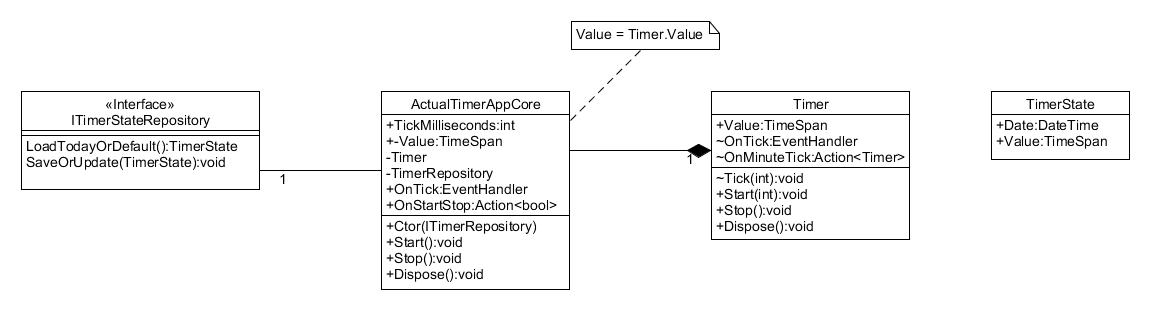
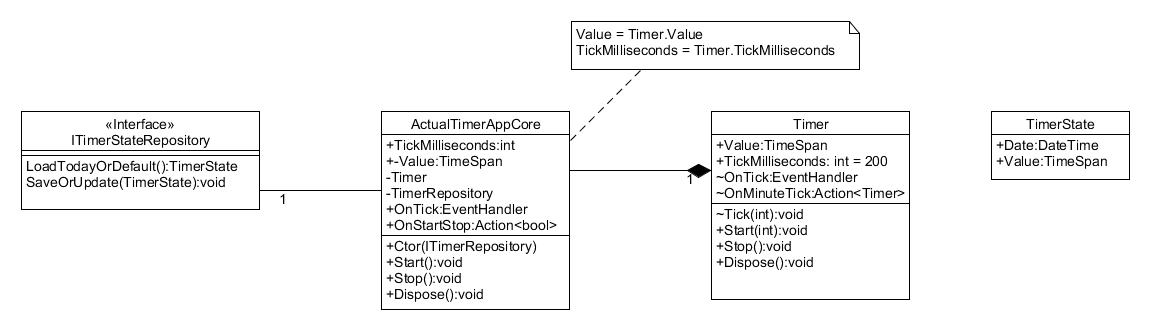
AT-9 Change Threading.Timer to one instance

diff --git a/src/ActualTimerSolution/Domain/Timer.cs b/src/ActualTimerSolution/Domain/Timer.cs
@@ -26,6 +26,12 @@ namespace Kobsky.ActualTimer
 		/// </summary>
 		public TimerState State => new TimerState {Date = Date, Value = Value};
 
+		/// <summary>to do</summary>
+		/// <summary xml:lang="ru">
+		/// Время в миллисекундах, определяющие интервал срабатывания таймера
+		/// </summary>
+		public int TickMilliseconds { get; set; } = 200;
+
 		/// <summary>to do </summary>
 		/// <summary xml:lang="ru">
 		/// Событие которое генерируется при каждом тике таймера
@@ -48,7 +54,7 @@ namespace Kobsky.ActualTimer
 		/// <summary xml:lang="ru">
 		/// <see cref="System.Threading.Timer"/> используемый <see cref="Timer"/> за кулисами, для работы
 		/// </summary>
-		private System.Threading.Timer _timer;
+		private readonly System.Threading.Timer _timer;
 
 		/// <summary>
 		/// Конструктор принимающий TimerState для восстановления значений таймера
@@ -58,22 +64,17 @@ namespace Kobsky.ActualTimer
 		{
 			Value = state.Value;
 			Date = state.Date;
+			_timer = new System.Threading.Timer(o => { Tick(); });
 		}
 
 		/// <summary>to do </summary>
 		/// <summary xml:lang="ru">
 		/// Метод вызывается для изменения текущего значения таймера
 		/// </summary>
-		/// <param name="milliseconds">
-		/// to do
-		/// <para>
-		/// <see cref="int"/> значение миллисекунд, на которое надо изменить текущее значение таймера
-		/// </para>
-		/// </param>
-		public void Tick(int milliseconds)
+		public void Tick()
 		{
 			_previous = Value;
-			Value = Value.Add(new TimeSpan(0,0,0,0,milliseconds));
+			Value = Value.Add(new TimeSpan(0,0,0,0,TickMilliseconds));
 
 			OnTick?.Invoke(this, null);
 
@@ -85,15 +86,9 @@ namespace Kobsky.ActualTimer
 		/// <summary xml:lang="ru">
 		/// Запускает таймер на выполнение
 		/// </summary>
-		/// <param name="milliseconds">
-		/// to do
-		/// <para>
-		/// <see cref="int"/> значение миллисекунд, указывающее интервал выполнения таймера
-		/// </para>
-		/// </param>
-		public void Start(int milliseconds)
+		public void Start()
 		{
-			_timer = new System.Threading.Timer(state => { Tick(milliseconds); },null, milliseconds, milliseconds);
+			_timer.Change(TickMilliseconds, TickMilliseconds);
 		}
 
 		/// <summary>to do </summary>
@@ -102,7 +97,7 @@ namespace Kobsky.ActualTimer
 		/// </summary>
 		public void Stop()
 		{
-			_timer?.Dispose();
+			_timer.Change(0, -1);
 		}
 
 		/// <summary>to do </summary>

diff --git a/src/ActualTimerSolution/Tests/DomainTests/TimerTests.cs b/src/ActualTimerSolution/Tests/DomainTests/TimerTests.cs
@@ -35,7 +35,8 @@ namespace DomainTests
 		{
 			Timer timer = new Timer(new TimerState());
 			timer.OnTick += (sender, args) => { _counter++; };
-			timer.Tick(100);
+			timer.TickMilliseconds = 100;
+			timer.Tick();
 
 			Assert.AreEqual(1, _counter);
 			Assert.AreEqual(new TimeSpan(0,0,0,0,100), timer.Value );
@@ -46,10 +47,11 @@ namespace DomainTests
 		{
 			Timer timer = new Timer(new TimerState {Value = new TimeSpan(0, 0, 0, 59, 0)});
 			timer.OnMinuteTick += (sender, timer1) => { _counter++; };
+			timer.TickMilliseconds = 1000;
 
-			timer.Tick(1000);
-			timer.Tick(1000);
-			timer.Tick(1000);
+			timer.Tick();
+			timer.Tick();
+			timer.Tick();
 
 			Assert.AreEqual(1, _counter);
 			Assert.AreEqual(new TimeSpan(0, 0, 1, 2, 0), timer.Value);
@@ -60,8 +62,9 @@ namespace DomainTests
 		{
 			Timer timer = new Timer(new TimerState());
 			timer.OnTick += Coutn;
+			timer.TickMilliseconds = 10;
 
-			timer.Start(10);
+			timer.Start();
 			Thread.Sleep(150);
 			// ReSharper disable once DelegateSubtraction
 			timer.OnTick -= Coutn;
@@ -78,10 +81,12 @@ namespace DomainTests
 		{
 			Timer timer = new Timer(new TimerState());
 			timer.OnTick += (sender, args) => { _counter++; };
+			timer.TickMilliseconds = 10;
 
-			timer.Start(10);
+			timer.Start();
 			Thread.Sleep(100);
 			timer.Stop();
+			Thread.Sleep(100);
 			int ticks = _counter;
 			Thread.Sleep(100);
 

diff --git a/src/ActualTimerSolution/Domain/ActualTimerAppCore.cs b/src/ActualTimerSolution/Domain/ActualTimerAppCore.cs
@@ -15,7 +15,11 @@ namespace Kobsky.ActualTimer
 		/// <summary xml:lang="ru">
 		/// Время в миллисекундах, определяющие интервал срабатывания таймера
 		/// </summary>
-		public int TickMilliseconds { get; set; } = 200;
+		public int TickMilliseconds
+		{
+			get { return _timer.TickMilliseconds; }
+			set { _timer.TickMilliseconds = value; }
+		}
 
 		/// <summary>to do</summary>
 		/// <summary xml:lang="ru">
@@ -66,7 +70,7 @@ namespace Kobsky.ActualTimer
 		{
 			if (OnTick != null) _timer.OnTick += OnTick;
 			_timer.OnMinuteTick += SaveTimer;
-			_timer.Start(TickMilliseconds);
+			_timer.Start();
 			OnStartStop?.Invoke(this,true);
 		}
 

diff --git a/src/ActualTimerSolution/Tests/DomainTests/ActualTimerAppCoreTests.cs b/src/ActualTimerSolution/Tests/DomainTests/ActualTimerAppCoreTests.cs
@@ -68,13 +68,15 @@ namespace DomainTests
 			core.Start();
 			Thread.Sleep(350);
 			core.Stop();
+			Thread.Sleep(350);
 
 			core.TickMilliseconds = 200;
 			core.Start();
 			Thread.Sleep(350);
 			core.Stop();
+			Thread.Sleep(350);
 
-			Assert.AreEqual(new TimeSpan(0, 0, 0, 0, 500), core.Value);
+			Assert.AreEqual(new TimeSpan(0, 0, 0, 0, 800), core.Value);
 		}
 
 		[Test]
